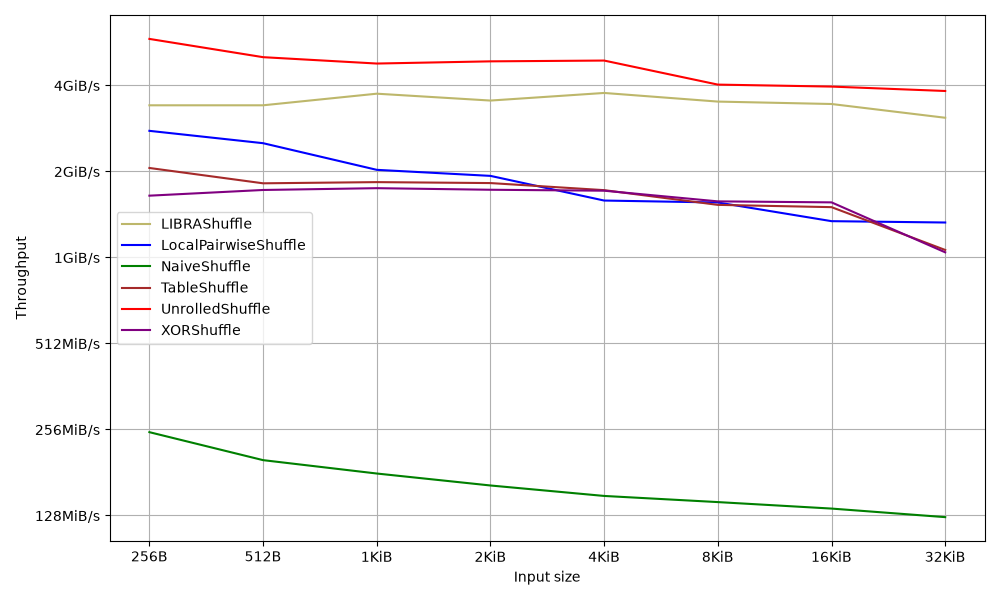
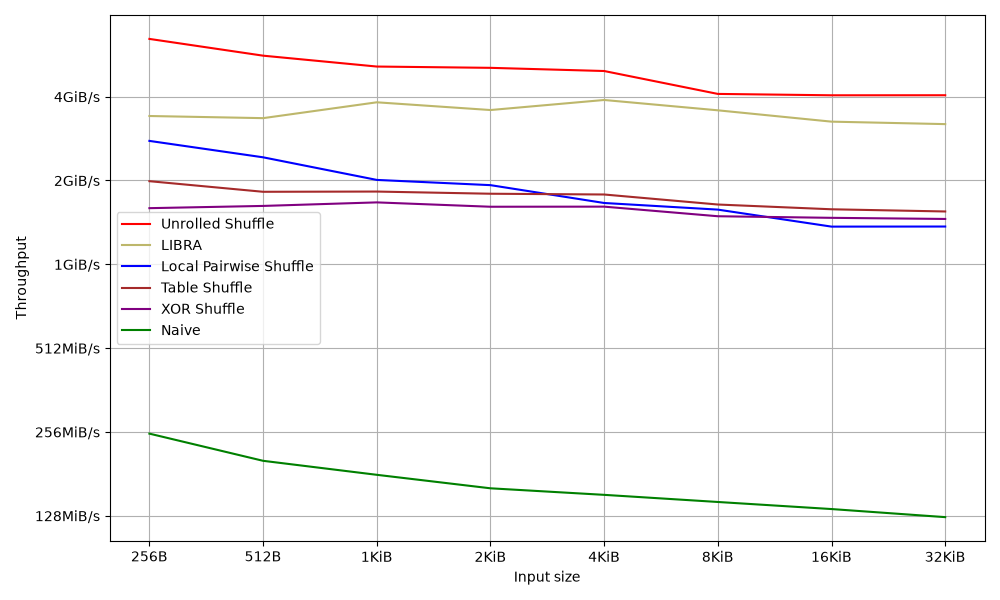
changed legend ordering

diff --git a/Src/util/plot.py b/Src/util/plot.py
@@ -35,6 +35,41 @@ colors = {
 }
 
 
+def rename(name):
+    names = {
+        "COBRAShuffle": "COBRA",
+        "CUDANaive": "Naive",
+        "CUDAReverse": "CUDA Reverse",
+        "CULIBRAShuffle": "CuLIBRA",
+        "fCOBRA": "f-COBRA",
+        "tLIBRAShuffle": "t-LIBRA",
+        "LIBRAShuffle": "LIBRA",
+        "LocalPairwiseShuffle": "Local Pairwise Shuffle",
+        "NaiveShuffle": "Naive",
+        "NOOP": "NOOP",
+        "OpenMPfCOBRA": "OpenMP f-COBRA",
+        "OpenMPLIBRAShuffle": "OpenMP LIBRA",
+        "OpenMPSemiRecursiveShuffle": "OpenMP Semi-Recursive Shuffle",
+        "RecursiveShuffle": "Recursive Shuffle",
+        "SemiRecursiveShuffle": "Semi-Recursive Shuffle",
+        "TableShuffle": "Table Shuffle",
+        "UnrolledShuffle": "Unrolled Shuffle",
+        "XORShuffle": "XOR Shuffle",
+    }
+    if name in names:
+        return names[name]
+    else:
+        return name.replace("Shuffle", "")
+
+
+def order_legends(handles, labels, data):
+    order = [len(handles) - 1 - i for i in range(len(handles))]
+    tuples = [(label, data[label].mean()) for label in labels]
+    tuples.sort(key=lambda x: x[1], reverse=True)
+    order = [labels.index(label) for label, _ in tuples]
+    return order
+
+
 def into_filesize(log2_value, suffix="B"):
     """Format 2**log2_value as a human readable quantity, e.g. 64KiB, 2GiB/s."""
     size = 2.0**log2_value
@@ -220,7 +255,12 @@ def plot(
     plt.xlabel("Input size")
     plt.grid(True)
     plt.ylabel(testclass.axis_name)
-    plt.legend()
+    handles, labels = plt.gca().get_legend_handles_labels()
+    order = order_legends(handles, labels, data_norm)
+    plt.legend(
+        [handles[idx] for idx in order],
+        [rename(labels[idx]) for idx in order],
+    )
     plt.tight_layout()
     if filename is None:
         plt.savefig(
